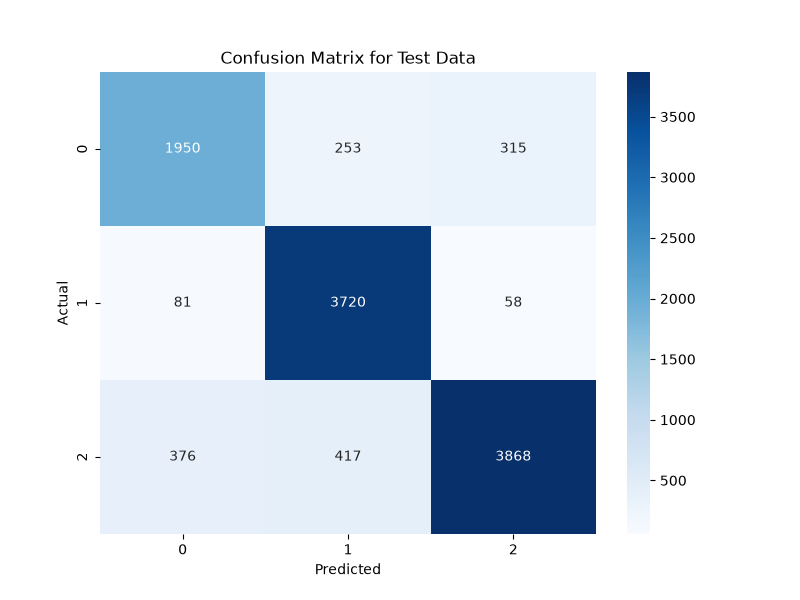
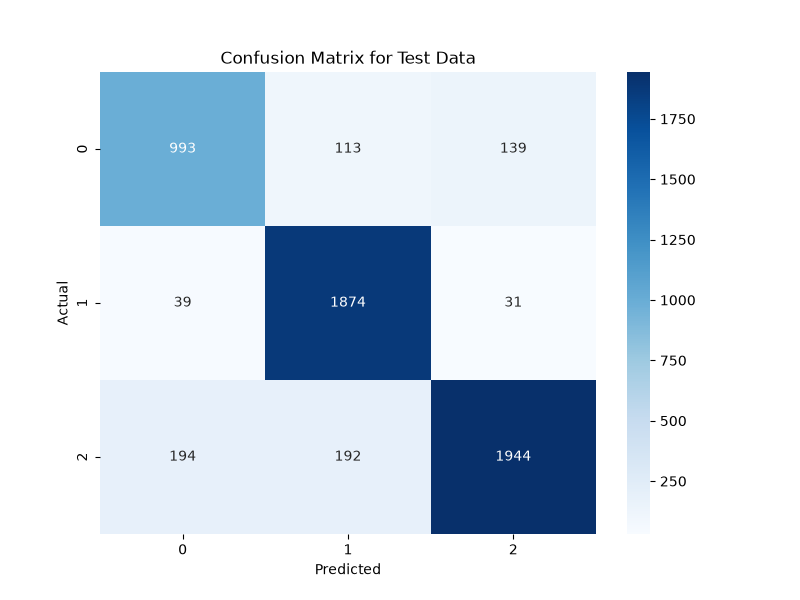
register the model to registry

diff --git a/src/model/register_model.py b/src/model/register_model.py
@@ -1,0 +1,76 @@
+# register model
+
+import json
+import mlflow
+import logging
+import os
+
+# Set up MLflow tracking URI
+mlflow.set_tracking_uri("http://32.192.188.1:5000")
+
+
+# logging configuration
+logger = logging.getLogger('model_registration')
+logger.setLevel('DEBUG')
+
+console_handler = logging.StreamHandler()
+console_handler.setLevel('DEBUG')
+
+file_handler = logging.FileHandler('model_registration_errors.log')
+file_handler.setLevel('ERROR')
+
+formatter = logging.Formatter('%(asctime)s - %(name)s - %(levelname)s - %(message)s')
+console_handler.setFormatter(formatter)
+file_handler.setFormatter(formatter)
+
+logger.addHandler(console_handler)
+logger.addHandler(file_handler)
+
+def load_model_info(file_path: str) -> dict:
+    """Load the model info from a JSON file."""
+    try:
+        with open(file_path, 'r') as file:
+            model_info = json.load(file)
+        logger.debug('Model info loaded from %s', file_path)
+        return model_info
+    except FileNotFoundError:
+        logger.error('File not found: %s', file_path)
+        raise
+    except Exception as e:
+        logger.error('Unexpected error occurred while loading the model info: %s', e)
+        raise
+
+def register_model(model_name: str, model_info: dict):
+    """Register the model to the MLflow Model Registry."""
+    try:
+        model_uri = f"runs:/{model_info['run_id']}/{model_info['model_path']}"
+        
+        # Register the model
+        model_version = mlflow.register_model(model_uri, model_name)
+        
+        # Transition the model to "Staging" stage
+        client = mlflow.tracking.MlflowClient()
+        client.transition_model_version_stage(
+            name=model_name,
+            version=model_version.version,
+            stage="Staging"
+        )
+        
+        logger.debug(f'Model {model_name} version {model_version.version} registered and transitioned to Staging.')
+    except Exception as e:
+        logger.error('Error during model registration: %s', e)
+        raise
+
+def main():
+    try:
+        model_info_path = 'experiment_info.json'
+        model_info = load_model_info(model_info_path)
+        
+        model_name = "yt_chrome_plugin_model"
+        register_model(model_name, model_info)
+    except Exception as e:
+        logger.error('Failed to complete the model registration process: %s', e)
+        print(f"Error: {e}")
+
+if __name__ == '__main__':
+    main()

diff --git a/scripts/mlflow_test.py b/scripts/mlflow_test.py
@@ -1,0 +1,17 @@
+import mlflow
+import random
+
+# Set the MLflow tracking URI
+mlflow.set_tracking_uri("http://32.192.188.1:5000")
+
+# Start an MLflow run
+with mlflow.start_run():
+    # Log some random parameters
+    mlflow.log_param("param1", random.randint(1, 100))
+    mlflow.log_param("param2", random.random())
+
+    # Log some random metrics
+    mlflow.log_metric("metric1", random.random())
+    mlflow.log_metric("metric2", random.uniform(0.5, 1.5))
+
+    print("Logged random parameters and metrics.")

diff --git a/src/model/model_evaluation.py b/src/model/model_evaluation.py
@@ -167,7 +167,7 @@ def main():
             )
 
             # Save model info
-            model_path = "lgbm_model"
+            model_path = mlflow.get_artifact_uri("lgbm_model")
             save_model_info(run.info.run_id, model_path, 'experiment_info.json')
 
             # Log the vectorizer as an artifact